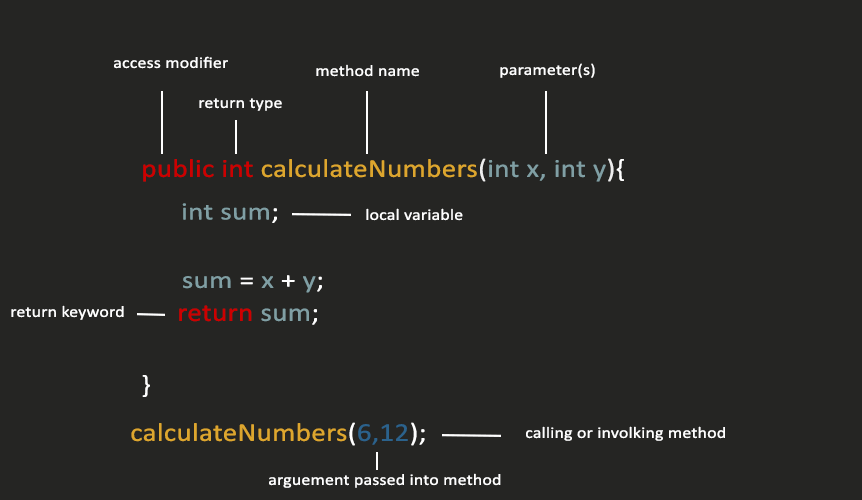
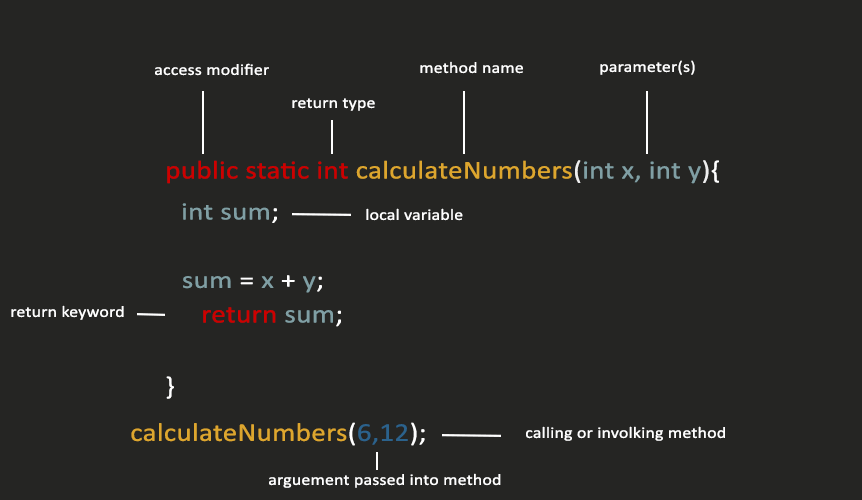
changing image for method example

diff --git a/slides/logic/modularization.html b/slides/logic/modularization.html
@@ -40,6 +40,8 @@
 							<li>local and global variables</li>
 							<li>Parameters and arguments</li>
 							<li>Calling/Invoking Methods</li>
+							<li>Static and Non-Static Methods</li>
+							<li>Arguments and Parameters</li>
 						</ul>
 						<li>Recursion</li>
 						<!--<ul>
@@ -73,6 +75,33 @@
 					<h2>Method Breakdown</h2>
 					<img src="images/methods/method_diagram.png"  style="box-shadow: none;" alt="method anatomy"/>
 				</section>
+				<!--<section data-background="#fff">
+					<h3>Local and Global variables</h3>
+					<ul>
+						<li style="font-size: .6em;">An array is a <b>collection</b> of homogeneous (same type) data <b>items stored</b> in contiguous memory locations. For example if an array is of type “int”, it can only store integer elements and cannot allow the elements of other types such as double, float, char etc.</li>
+						<li style="font-style: italic; font-size: .6em;">Array is particularly useful when we are dealing with lot of variables of the same type.</li>
+					</ul>
+					<img src="images/structures/java_array.jpg" alt="picture of array">
+		
+				</section>
+				<section data-background="#fff">
+					<h3>Calling/Involking a Method</h3>
+					<ul>
+						<li style="font-size: .6em;">An array is a <b>collection</b> of homogeneous (same type) data <b>items stored</b> in contiguous memory locations. For example if an array is of type “int”, it can only store integer elements and cannot allow the elements of other types such as double, float, char etc.</li>
+						<li style="font-style: italic; font-size: .6em;">Array is particularly useful when we are dealing with lot of variables of the same type.</li>
+					</ul>
+					<img src="images/structures/java_array.jpg" alt="picture of array">
+		
+				</section>
+				<section data-background="#fff">
+					<h3>Array</h3>
+					<ul>
+						<li style="font-size: .6em;">An array is a <b>collection</b> of homogeneous (same type) data <b>items stored</b> in contiguous memory locations. For example if an array is of type “int”, it can only store integer elements and cannot allow the elements of other types such as double, float, char etc.</li>
+						<li style="font-style: italic; font-size: .6em;">Array is particularly useful when we are dealing with lot of variables of the same type.</li>
+					</ul>
+					<img src="images/structures/java_array.jpg" alt="picture of array">
+		
+				</section>-->
 
 				<!--<section data-background="images/structures/car_bg.jpg">
 					<h1 style="color: white; background-color: rgba(0,0,0, .6); padding: 3px;">Data Structure - Array</h1>
